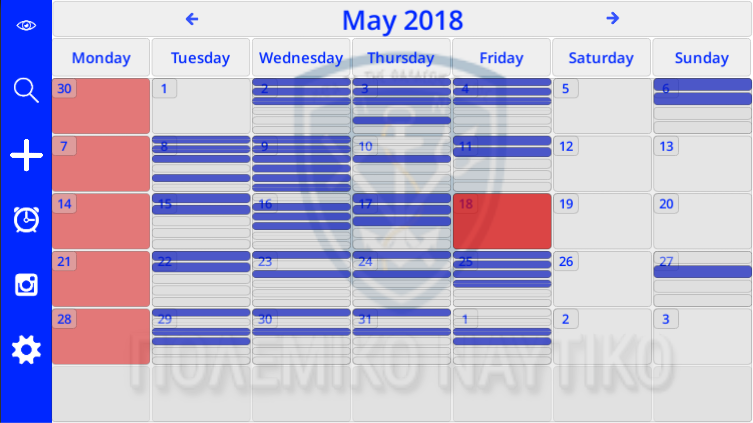
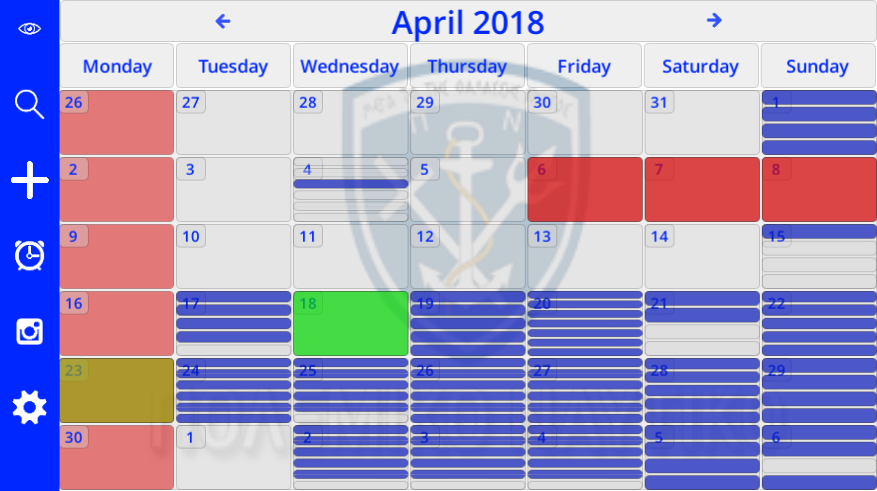
added overview text for calendar project and changed its image. Added source code links where appropriate and changed all overviews to be paragraphised

diff --git a/displayProjects.js b/displayProjects.js
@@ -7,16 +7,15 @@ const database = [
 				image2: "images\\examplegeometrymapFull.png",
 				title: "Saliency in 3D Environment",
 				summary: "Exploring low-level saliency in virtual environments during a search task.",
-				overview: `
-				Exploring low-level saliency in virtual environments during a search task. 
+				overview: `<p>Exploring low-level saliency in virtual environments during a search task. 
 				The 3D environment was created in Unity using a random dungeon generation asset. 
-				The play-through and other relevant information such as character position and rotation in each frame were recorded, as well as the gaze points which were extracted using a Tobii EyeX tracker with the provided Unity SDK. 
-				The information was then processed with OpenCV in terms of low-level (pixel) saliency and the environment was recreated using OpenGL for visualisation. 
+				The play-through and other relevant information such as character position and rotation in each frame were recorded, as well as the gaze points which were extracted using a Tobii EyeX tracker with the provided Unity SDK.</p>
+				<p>The information was then processed with OpenCV in terms of low-level (pixel) saliency and the environment was recreated using OpenGL for visualisation. 
 				Frames were processed in terms of their salient features using a variety of low-level salient algorithms, such as the 
 				<a href="http://www.klab.caltech.edu/~xhou/papers/cvpr07.pdf">Spectral Residual Map of Hou and Zhang</a>
-				where an example implementation is available built-in the OpenCV(3+) library. 
-				The salient points gathered throughout the play-through were filtered to minimise duplicates. 
-				They were then evaluated in terms of attendance using a 3D heatmap created from the player's gaze points.`,
+				where an example implementation is available built-in the OpenCV(3+) library.</p>
+				<p>The salient points gathered throughout the play-through were filtered to minimise duplicates. 
+				They were then evaluated in terms of attendance using a 3D heatmap created from the player's gaze points.</p>`,
 				tags: "Tobii EyeX, Unity, C++, OpenCV, OpenGL"
 			},
 			{
@@ -24,14 +23,15 @@ const database = [
 				image2: "images\\volumvisFull.png",
 				title: "3D Volume Visualisation using Ray Tracing",
 				summary: "Visualisation of volume data using ray tracing rendering and uniform sampling.",
-				overview: `Visualisation of volume data using the ray tracing rendering technique and uniform sampling.
+				overview: `<p>Visualisation of volume data using the ray tracing rendering technique and uniform sampling.
 				The data was first expressed in the world as a box with 6 planes, on which we cast rays. 
 				Upon verifying a hit we recursed on that ray with a uniform step which was calculated by the angle of the ray with the plane. 
 				Respective 3D points were then converted into intensity values from our data according to nearest-neighbor or trilinear sampling. 
-				The recursion stops when the point is no longer valid. 
-				We used OpenGL for rendering the output as a set of 2D points and Pthreads for acceleration.
+				The recursion stops when the point is no longer valid.</p>
+				<p>We used OpenGL for rendering the output as a set of 2D points and Pthreads for acceleration.
 				Current set-up: 500x500 resolution/ 256x256x100 datasize/ 8 threads runs approximately 0.1-0.3 seconds with NN or 0.5-0.7 seconds with trilinear interpolation. 
-				Running time depends on the face and distance that we are looking (number of rays that represent data).`,
+				Running time depends on the face and distance that we are looking (number of rays that represent data).</p>
+				<p>Source code available <a href="https://github.com/StavrosAnastopoulos/VolumeVisualisation">here.</a></p>`,
 				tags: "C++, Pthreads, OpenGL"
 			},
 			{
@@ -39,10 +39,12 @@ const database = [
 				image2: "images\\raytracing.png",
 				title: "Ray Tracing",
 				summary: "Ray Tracer rendering technique. All objects are declared in a mathematical format.",
-				overview: `Ray Tracer example written in C++ using OpenGL for rendering the output, GLM for matrix and vector operations and Pthreads for some speed-up. 
+				overview: `<p>Ray Tracer example written in C++ using OpenGL for rendering the output, GLM for matrix and vector operations and Pthreads for some speed-up. 
 				Contains a scene with primitive objects (sphere/plane/triangle). 
 				The objects are declared in a mathematical format (no mesh readers/handlers) and the lighting follows the standard Ambient/Diffuse/Specular lighting with light attenuation and normal shadows. 
-				The materials can vary as: Normal, Reflective, Refractive. Currently it runs in ~1 second on 4 threads in a scene 640x480 with 125 objects.`,
+				The materials can vary as: Normal, Reflective, Refractive.</p>
+				<p>Currently it runs in ~1 second on 4 threads in a scene 640x480 with 125 objects.</p>
+				<p>Source code available <a href="https://github.com/StavrosAnastopoulos/raytracer">here.</a></p>`,
 				tags: "C++, Pthreads, OpenGL, GLM"
 			},
 			{
@@ -50,11 +52,11 @@ const database = [
 				image2: "images\\trackingFull.png",
 				title: "Multiple Object Tracking",
 				summary: "Identify and track a set of objects across frames.",
-				overview: `The objective was to identify and track a set of balls across frames, having a total of 10 balls varied across 3 colors. 
+				overview: `<p>The objective was to identify and track a set of balls across frames, having a total of 10 balls varied across 3 colors. 
 				Having an almost stationary background, we extract the different balls using background subtraction and we further process the image with morphological operators and color information to erase noise and keep the individual spheres. 
 				For tracking we used the Condensation tracker to encode dynamics and produce plausible future locations and Kalman filter for their evaluation. 
 				The "observed" values came from a naive approach of comparing relative positions, sizes and histograms across frames. 
-				Overall the tracking was about 75% accurate across frames, however it was prone to errors when there were more than one balls of the same color in the same area.`,
+				Overall the tracking was about 75% accurate across frames, however it was prone to errors when there were more than one balls of the same color in the same area.</p>`,
 				tags: "Matlab"
 			},
 			{
@@ -62,10 +64,11 @@ const database = [
 				image2: "images\\DWA.png",
 				title: "Image Processing",
 				summary: "Application of some basic filters is explored, as well as a stitching technique for panoramic compostition.",
-				overview: `Python code demonstrating an horizontal panoramic composition technique. 
+				overview: `<p>Python code demonstrating an horizontal panoramic composition technique. 
 				The algorithm takes consecutive images and finds a best merging point based on the difference of pixel columns. 
 				Then by merging horizontally and processing the overlap area, by dynamically assigning weights, it creates a smooth transition between the images. 
-				The effect of various filters has also been explored, such as Gaussian and Median smoothing and Sobel edges.`,
+				The effect of various filters has also been explored, such as Gaussian and Median smoothing and Sobel edges.</p>
+				<p>Source code available <a href="https://github.com/StavrosAnastopoulos/ImProc">here.</a></p>`,
 				tags: "Python, UG Final Year Project"
 			}
 		]
@@ -78,17 +81,18 @@ const database = [
 				image2: "images\\boulder.png",
 				title: "Boulder Bypasser",
 				summary: "Semi 3D flight game. Fly inside a procedurally generated cave. Pass throught waypoints and avoid obstacles.",
-				overview: `Semi-3D Flight game. 
-				The player is given control of a spaceship inside a cave and he has to progress through it, avoid obstacles and pass through the way-points to increase his score and speed. 
+				overview: `<p>Semi-3D Flight game.</p>
+				<p>The player is given control of a spaceship inside a cave and he has to progress through it, avoid obstacles and pass through the way-points to increase his score and speed. 
 				A custom character controller gives the initial feel that was envisioned and then some minor options allow the player to adjust to his preferences. 
-				These include input (touch or accelerometer), adjusting the sensitivity, the character transparency or even changing the view point. 
-				Objects are low polygon made in 3DS MAX, simple enough to serve their purpose. 
+				These include input (touch or accelerometer), adjusting the sensitivity, the character transparency or even changing the view point.</p>
+				<p>Objects are low polygon made in 3DS MAX, simple enough to serve their purpose. 
 				In-game they are being generated using a clustering algorithm to determine their initial position, size and speed. 
-				Unity's standard assets for cell shading fitted perfectly with the atmosphere and low polygon objects achieving simple cartoon graphics. 
-				Procedural mesh generation and editing gives the feeling of movement through the cave. 
+				Unity's standard assets for cell shading fitted perfectly with the atmosphere and low polygon objects achieving simple cartoon graphics.</p>
+				<p>Procedural mesh generation and editing gives the feeling of movement through the cave. 
 				Using a single chunk of terrain which is continuously altered using Perlin noise, the cave is continuously updated based on player's speed. 
-				The mesh points are being modified using Compute Shaders where supported, otherwise the terrain is split in four parts and use the standard .Net threads, achieving real-time update of both the mesh and its collider. 
-				The game is for android and freely available on <a href="https://play.google.com/store/apps/details?id=com.TheMisku.BoulderBypasser">Google Play</a>.`,
+				The mesh points are being modified using Compute Shaders where supported, otherwise the terrain is split in four parts and use the standard .Net threads, achieving real-time update of both the mesh and its collider.</p> 
+				<p>The game is for android and freely available on <a href="https://play.google.com/store/apps/details?id=com.TheMisku.BoulderBypasser">Google Play</a>.</p>
+				<p>Source code available <a href="https://github.com/StavrosAnastopoulos/Boulder-Bypasser">here.</a></p>`,
 				tags: "Unity, 3DS Max"
 			},
 			{
@@ -96,16 +100,17 @@ const database = [
 				image2: "images\\spaceretrFull.png",
 				title: "Space Retributor",
 				summary: "2D arcade space shooter. Fight your way through enemies of increasing difficulty and their end-game boss.",
-				overview: `A 2D arcade, space shooter game. 
-				The main enemies are divided into three different categories with different behaviors such as focusing the user for period of time or avoiding his attacks. 
+				overview: `<p>A 2D arcade, space shooter game.</p>
+				<p>The main enemies are divided into three different categories with different behaviors such as focusing the user for period of time or avoiding his attacks. 
 				The different categories are labeled with different level of difficulty and their spawn chance changes depending on how the user's score progresses. 
 				A boss fight is also available after the player reaches a certain score. 
 				On enemy death there is a chance for a power-up to spawn. 
 				These are also divided into three categories as health replenishment, temporary invulnerability and temporary boost in user's attack frequency. 
 				The armor of the user is recharged if depleted after a a few seconds providing him with a smart sustainability. 
 				A persistent high score table can be accessed from the menu screen that keeps the top five attempts and the respective attempt number. 
-				The graphics consist from sprite animations and particle effects.  
-				The game can be freely downloaded from <a href="https://play.google.com/store/apps/details?id=com.TheMisku.SpaceRetributor">Google Play</a>.`,
+				The graphics consist from sprite animations and particle effects.</p>
+				<p>The game can be freely downloaded from <a href="https://play.google.com/store/apps/details?id=com.TheMisku.SpaceRetributor">Google Play</a>.</p>
+				<p>Source code available <a href="https://github.com/StavrosAnastopoulos/Space-Retributor">here.</a></p>`,
 				tags: "Unity"
 			},
 			{
@@ -113,12 +118,13 @@ const database = [
 				image2: "images\\ballrunnerFull.png",
 				title: "Ball Runner",
 				summary: "A platform-runner mini game with simplistic graphics and procedurally generated level.",
-				overview: `A platform/runner mini game with simplistic graphics. 
-				Mostly a case study for automatic tile-map generation. 
+				overview: `<p>A platform/runner mini game with simplistic graphics.</p>
+				<p>Mostly a case study for automatic tile-map generation. 
 				The environment is generated randomly and infinitely as long as the player survives and progresses. 
 				There are collectibles along the way for the user, which can be gathered to increase his score. 
-				However there are some that will hinder his movement abilities, so collect with caution. 
-				The game can be freely downloaded on android devices from <a href="https://play.google.com/store/apps/details?id=com.NoCompany.Platformer">Google Play</a>.`,
+				However there are some that will hinder his movement abilities, so collect with caution.</p>
+				<p>The game can be freely downloaded on android devices from <a href="https://play.google.com/store/apps/details?id=com.NoCompany.Platformer">Google Play</a>.</p>
+				<p>Source code available <a href="https://github.com/StavrosAnastopoulos/Ball-Runner">here.</a></p>`,
 				tags: "Unity"
 			}
 		]
@@ -131,7 +137,21 @@ const database = [
 				image2: "images\\calendar.png",
 				title: "Calendar based Scheduler",
 				summary: "A scheduler created for a museum to hold the guided tours and generate weekly and semester reports.",
-				overview: "",
+				overview: `<p>This project was created for a naval museum as a scheduler in order to store their guided tours and have a good visualisation of the timetable to increase their productivity. 
+				It features three view modes; The monthly view is a compact version in order to have a full scale visualisation of the timeschedule without worrying about individual group details. 
+				It is the prefered version when in the process of booking a new group because the user can easily see information about the period around a certain date and conclude faster to an appropriate day/time.
+				The second most usefull view mode is the daily mode. There the user can add or review each group by looking at the full details.
+				The last view mode is the weekly, which gives full information of the user about each day of week and each appointment. 
+				It is not so visually appealing, but it is used in order to automatically generate the weekly report (exported in pdf).
+				Apart from the weekly report, the application also features the generation of a semester report which is more client specific.</p>
+				<p>Furthermore, there are a lot of setting for customisation and extensibility.
+				The timetable to each day of week can be altered in order to suit the customer needs.
+				Also the detailes that are stored for each group can be defined and the user can create a variety of such groups.
+				To add to that, colour groups can be defined, and when creating a new appointment you can set its special colour group to be visualised in the monthly view. 
+				That helps as a reminder to the user when there is a special appointment or occasion coming up.</p>
+				<p>As far as the data is concerned, they are stored in XML files. There is a file hierarchy as year>month>xmlfile and in the file they are separated by day as per parent>children. 
+				So when the application tries to retrieve information about a day, the algorithm goes directly to the associated year/month, so that it doesnt have to go through all the data.</p>
+				<p>Source code available <a href="https://github.com/StavrosAnastopoulos/Calendar">here.</a></p>`,
 				tags: "Unity"
 			},
 			{
@@ -139,10 +159,10 @@ const database = [
 				image2: "images\\robot.png",
 				title: "Automated Resoure Retrieval with Mobile Robots",
 				summary: "Robotics group project with aim of constructing an autonomous robot for navigating in an arena, searching the specified resources and retrieving them back to the base.",
-				overview: `A robotics project conducted in a team of three. 
+				overview: `<p>A robotics project conducted in a team of three. 
 				The aim of the project was to construct an autonomous mobile robot for navigating in an arena, searching the specified resources and retrieving them back to the base. 
 				The robot itself was constructed using Phidget electrical boards, motors and sensors, a fit-PC, a camera and Lego pieces. 
-				It used two IR sensors and one sonar for navigation and avoidance, the camera for recognising resources and a gripper for collecting them.`,
+				It used two IR sensors and one sonar for navigation and avoidance, the camera for recognising resources and a gripper for collecting them.</p>`,
 				tags: "C++, Pthreads, Phidget, Lego"
 			},
 			{
@@ -150,11 +170,11 @@ const database = [
 				image2: "images\\NN.png",
 				title: "Neural Network and Genetic Algorithm",
 				summary: "Construction of Neural Network to learn two function outputs with single input and optimisation of hidden layer by a genetic algorithm.",
-				overview: `An example of a Neural Network simulating the result of two functions in C++. 
+				overview: `<p>An example of a Neural Network simulating the result of two functions in C++. 
 				The initial structure includes one input node, one hidden layer with five hidden nodes, two output nodes and two threshold nodes on transition between layers. 
 				The Neural Network is trained on a set of input and output results and validated on a different set of input-output. 
-				Optimisation through Genetic Algorithm is conducted to optimise the number of hidden neurons. 
-				Source code available <a href="https://github.com/Ingethel/neuralnet">here</a>`,
+				Optimisation through Genetic Algorithm is conducted to optimise the number of hidden neurons. </p>
+				<p>Source code available <a href="https://github.com/StavrosAnastopoulos/neuralnet">here.</a></p>`,
 				tags: "C++"
 			}
 		]
